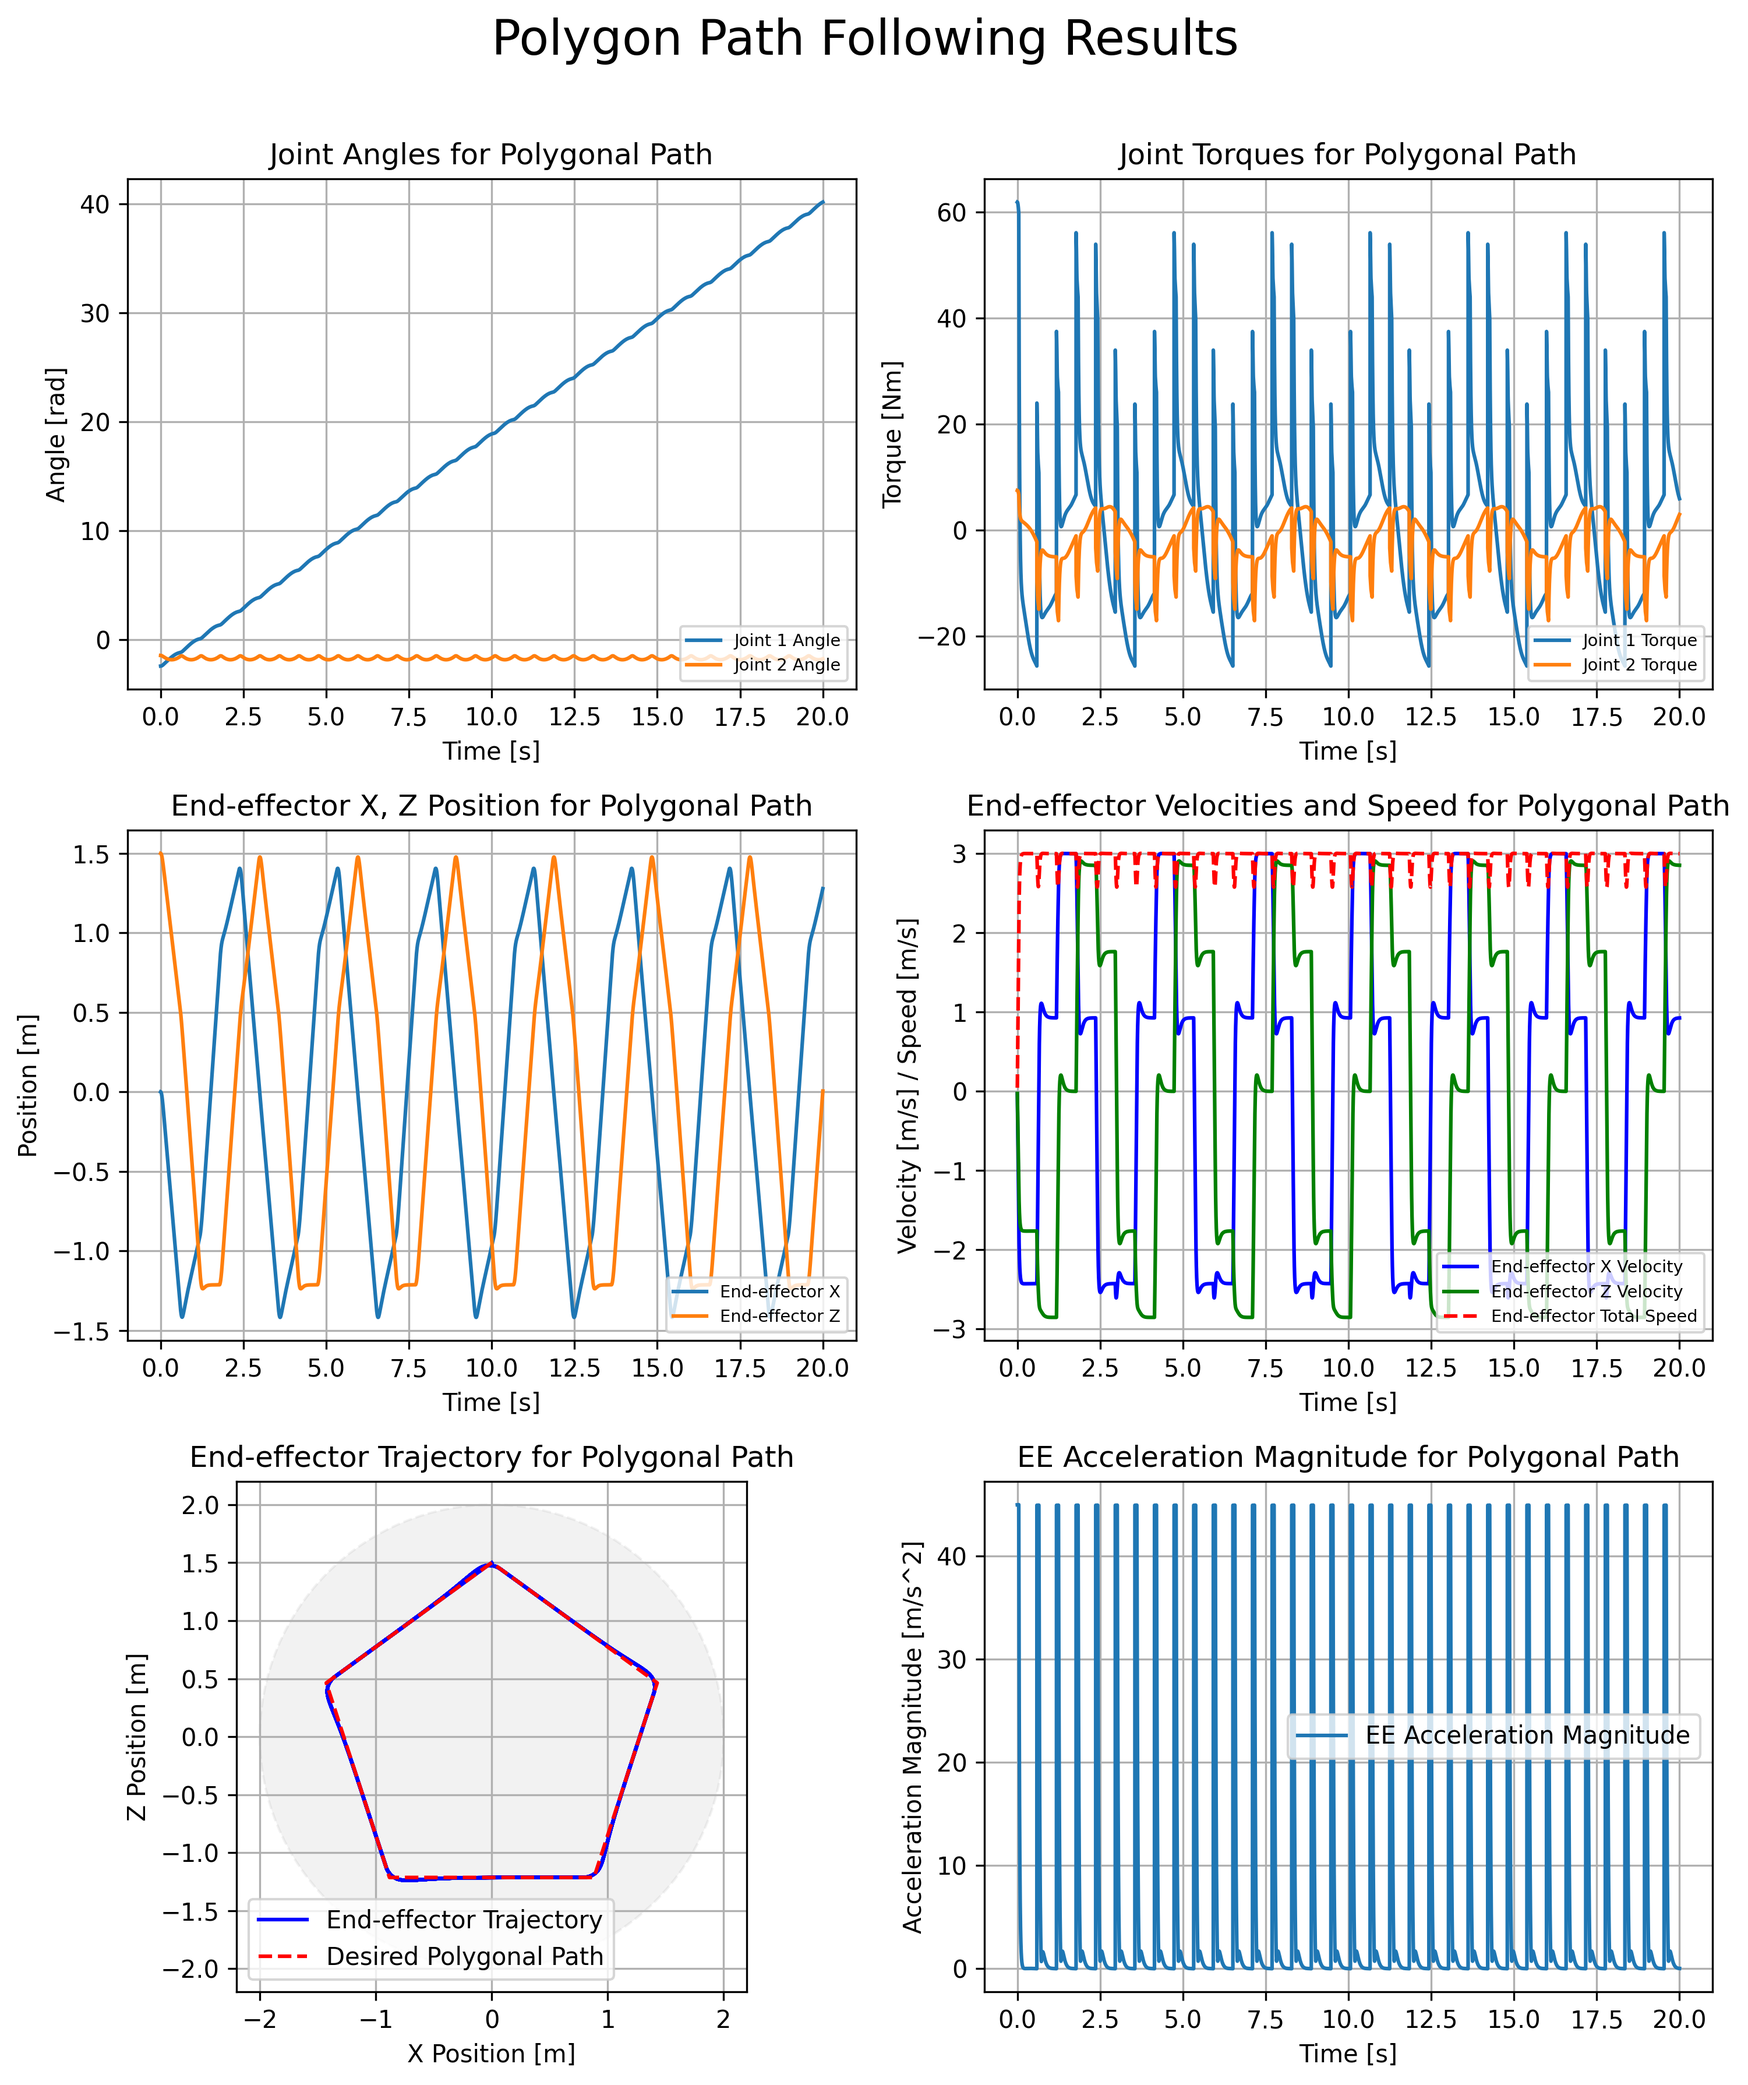
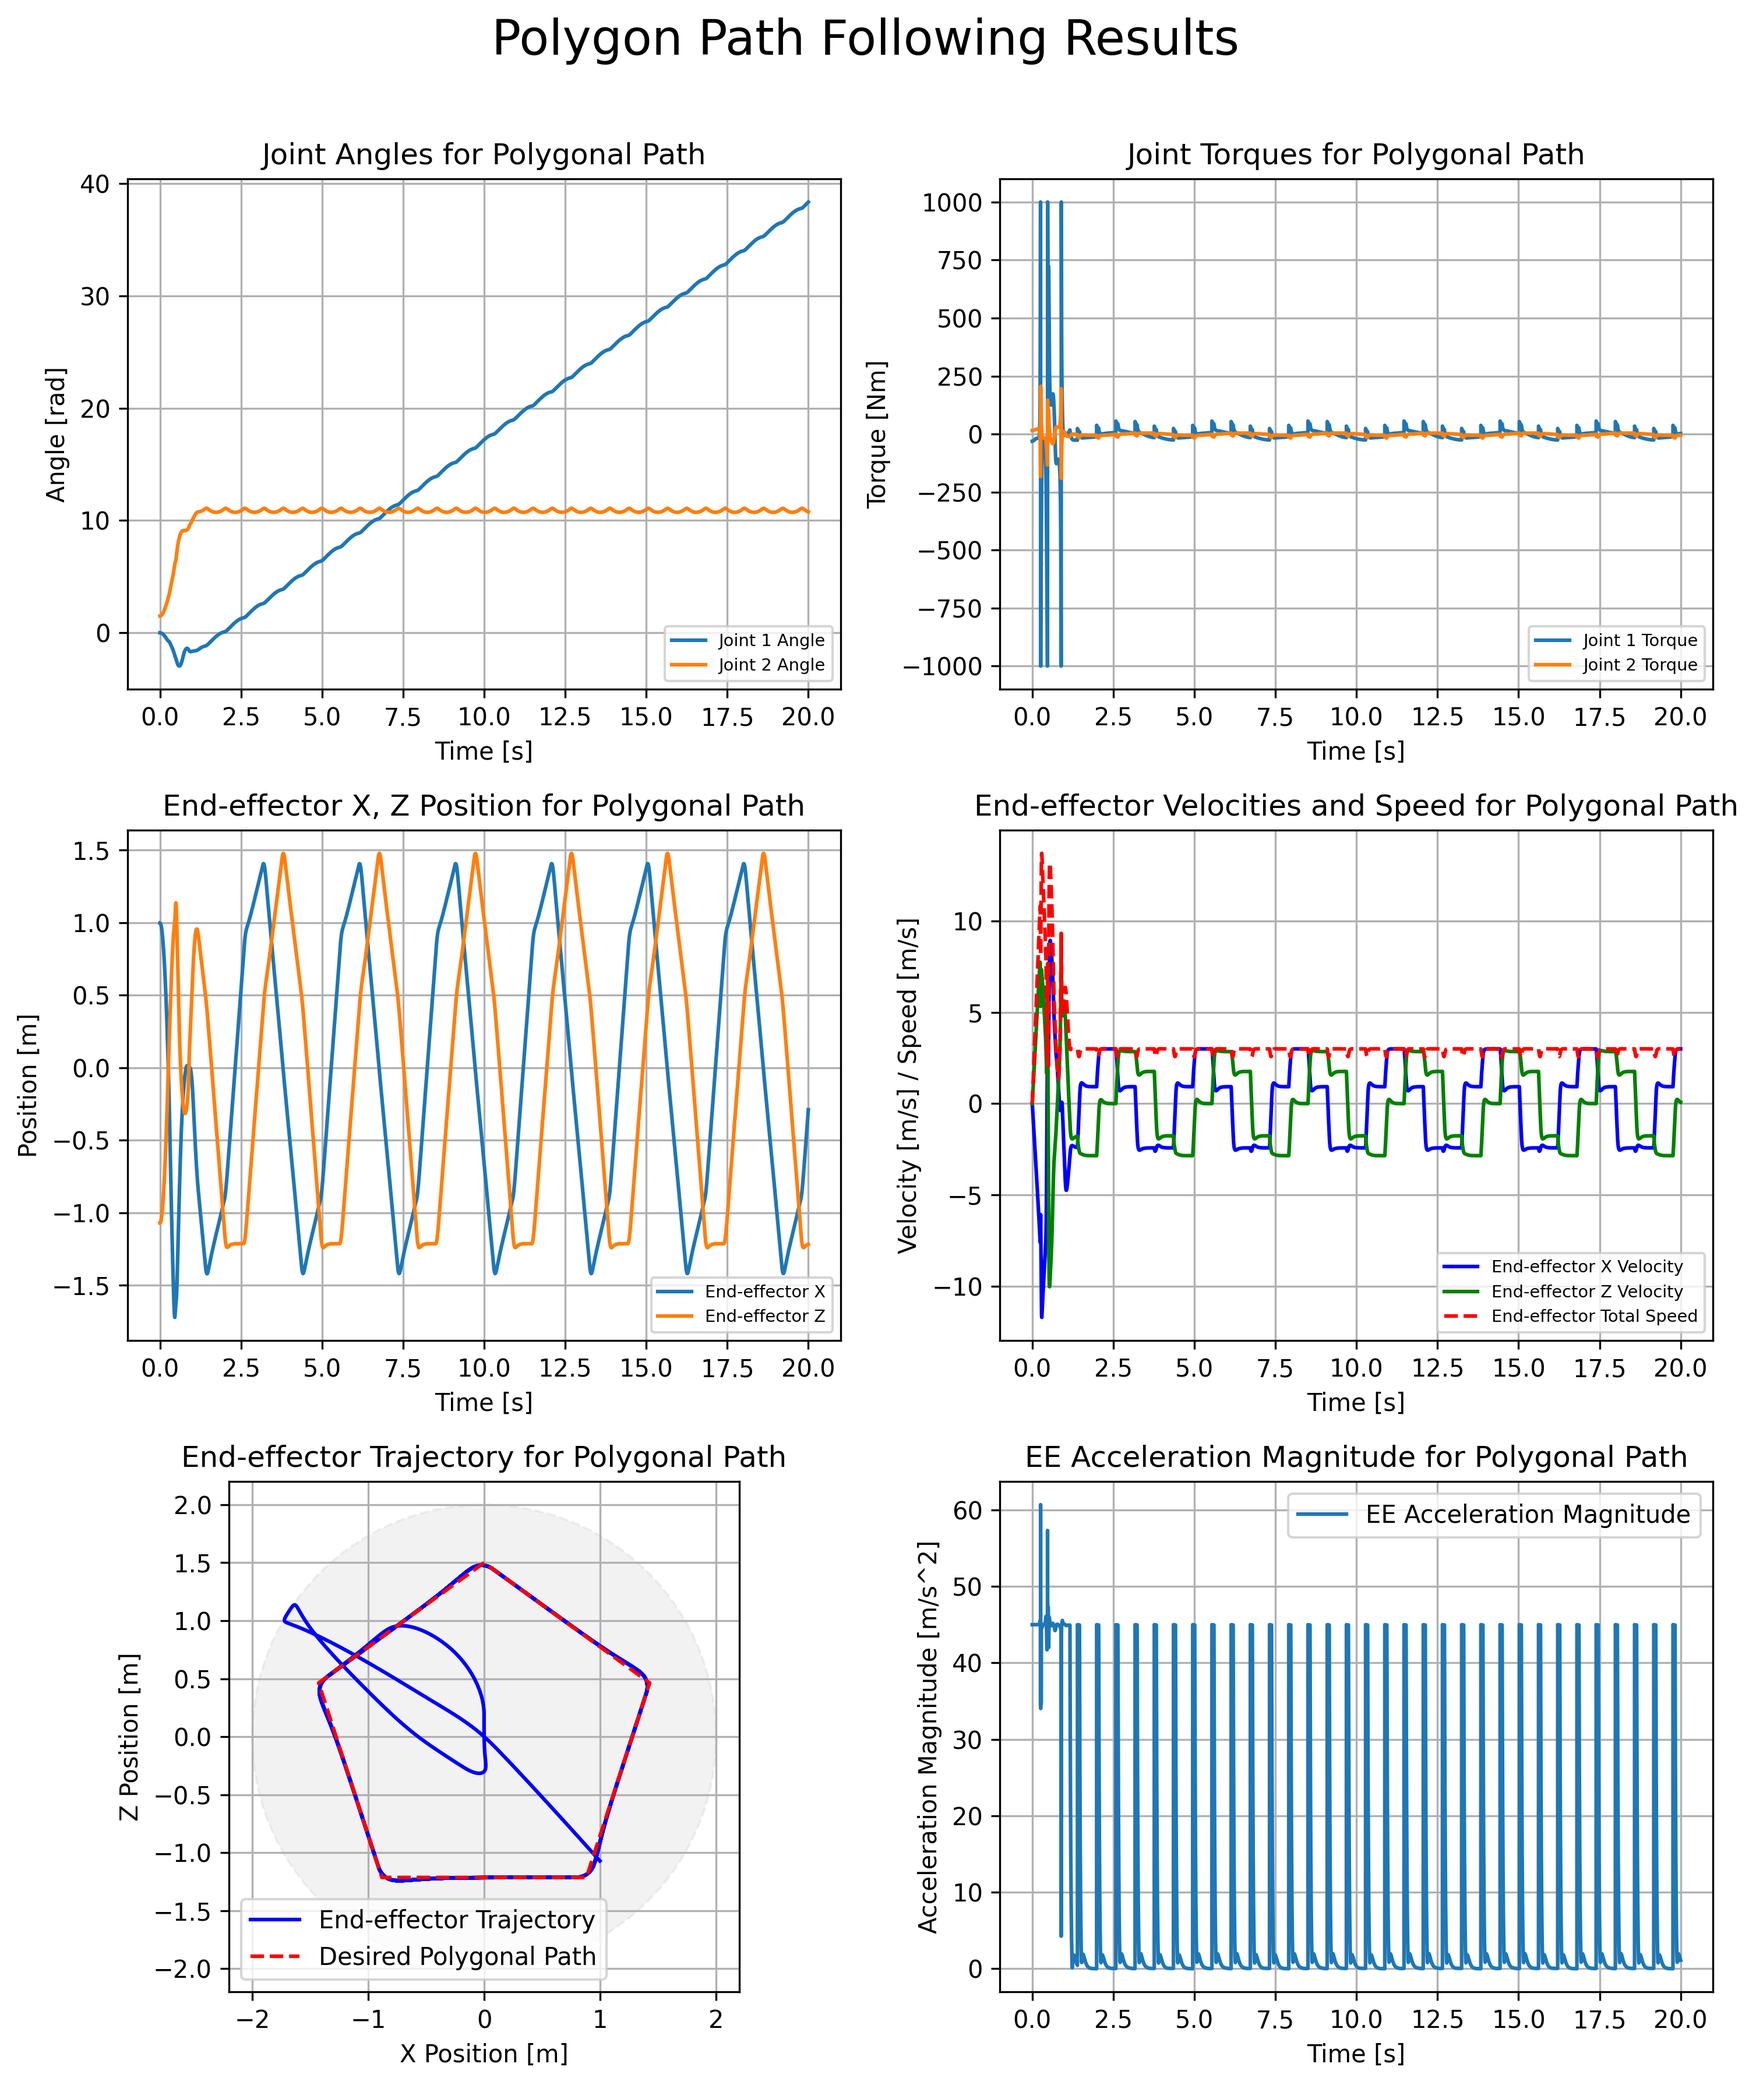
polygon path updated

diff --git a/experiment/PolygonPath/simulation.py b/experiment/PolygonPath/simulation.py
@@ -1,10 +1,13 @@
 import numpy as np
+from typing import Optional
+
 from src.parameters import RobotParameters, SimulationParameters
-from src.mujoco_setup import MODEL_PATH, load_model_and_data, get_robot_parameters
+from src.mujoco_setup import MODEL_PATH, load_model_and_data, get_robot_parameters, get_simulation_parameters
 from src.path.PolygonPath import PolygonPath
+from src.robot.arm_2dof.kinematics import inverse_kinematics
+
 from simulation.run_simulation import run_simulation
 from experiment.gif_generation import generate_robot_arm_full_trajectory_gif
-from typing import Optional
 from experiment.experiment_runner import run_experiment_cli
 from experiment.PolygonPath.plot_combined_results import plot_polygonal_path_results
 
@@ -30,17 +33,17 @@ def regular_polygon(r, n):
 def run_experiment(q_init: np.ndarray, polygon_path_obj: PolygonPath, robot_params: Optional[RobotParameters] = None, 
                    max_acceleration = 10.0, verbose = True, use_viewer = False):
     # Load the Mujoco model and data
-    model, data = load_model_and_data("model/2dof_arm.xml")
+    model, data = load_model_and_data(MODEL_PATH)
     
     if robot_params is None:
-        robot_params = get_robot_parameters(load_model_and_data("model/2dof_arm.xml")[0])
+        robot_params = get_robot_parameters(model)
 
     # Set SimulationParameters for the polygonal path
     polygon_sim_duration = 20.0 # seconds
-    polygon_num_steps = int(polygon_sim_duration / dt)
-    sim_params = SimulationParameters(dt=dt, num_steps=polygon_num_steps)
+    sim_params = get_simulation_parameters(model)
+    sim_params.num_steps = int(polygon_sim_duration / sim_params.dt)
     
-    simulation_log = run_simulation(model, data, q_init, "pw", robot_params, sim_params, polygon_path_obj, 
+    simulation_log = run_simulation(model, data, q_init, "pw", sim_params, polygon_path_obj, 
                                     max_acceleration=max_acceleration, save_operational_space=True, use_viewer = use_viewer)
     
     if verbose:
@@ -80,7 +83,7 @@ def generate_GIF(simulation_log: list, sim_params: SimulationParameters, polygon
         segment_length = segment.length
         # Generate points along the segment for visualization
         if segment_length > 0:
-            num_points_per_segment = int(segment_length / (polygon_path_obj.desired_speed * dt)) + 2 # Add a few extra points
+            num_points_per_segment = int(segment_length / (polygon_path_obj.desired_speed * sim_params.dt)) + 2 # Add a few extra points
             # Use np.linspace to get points along the segment
             for k in range(num_points_per_segment):
                 alpha = k / (num_points_per_segment - 1)
@@ -108,12 +111,12 @@ def generate_GIF(simulation_log: list, sim_params: SimulationParameters, polygon
 # Main function to run the polygonal path following experiment
 # ============================================
 def main(use_viewer = True, generate_plot = True, generate_gif = True):
-    
-    # Initial joint angles
-    q_init = inverse_kinematics(np.array([0, 1.5]), L1, L2)
-    
+   
      # Define the vertices of a polygonal path
     polygon_vertices = regular_polygon(1.5, 5)
+    
+    # Initial joint angles
+    q_init = inverse_kinematics(polygon_vertices[0], 1.0, 1.0, polygon_vertices[0])
 
     # Define desired speed and maximum acceleration for the polygonal path
     desired_speed = 3.0

diff --git a/experiment/PolygonPath/plot_combined_results.py b/experiment/PolygonPath/plot_combined_results.py
@@ -1,6 +1,8 @@
 import matplotlib.pyplot as plt
 import numpy as np
-from src.mujoco_setup import dt, calcuate_inertia_matrix, calculate_coriolis_centrifugal_torques, calculate_gravity_torques, get_jacobian, get_J_dot
+
+from src.robot.arm_2dof.dynamics import calcuate_inertia_matrix, calculate_coriolis_centrifugal_torques, calculate_gravity_torques
+from src.robot.arm_2dof.kinematics import get_jacobian, get_J_dot
 
 def plot_polygonal_path_results(x_log, q_log, torque_log, polygon_path_obj, sim_params, robot_params):
         
@@ -31,7 +33,7 @@ def plot_polygonal_path_results(x_log, q_log, torque_log, polygon_path_obj, sim_
 
     # --- Joint Angles and Torques over Time ---
 
-    time_log = [i * dt for i in range(sim_params.num_steps)]
+    time_log = [i * sim_params.dt for i in range(sim_params.num_steps)]
 
     ax_q.plot(time_log, q1_log, label='Joint 1 Angle')
     ax_q.plot(time_log, q2_log, label='Joint 2 Angle')

diff --git a/simulation/run_simulation.py b/simulation/run_simulation.py
@@ -2,7 +2,7 @@ import numpy as np
 import mujoco
 import mujoco.viewer
 import time
-from src.parameters import RobotParameters, ImpedanceControlParameters,SimulationParameters
+from src.parameters import ImpedanceControlParameters,SimulationParameters
 from simulation.perform_simulation_step import perform_simulation_step
 from src.mujoco_setup import get_robot_parameters
 

diff --git a/src/robot/arm_2dof/kinematics.py b/src/robot/arm_2dof/kinematics.py
@@ -20,7 +20,7 @@ def get_J_dot(q1, q2, q1_dot, q2_dot, L1, L2):
     ])
     return Jdot
 
-def inverse_kinematics(pos, L1, L2, q_current = None):
+def inverse_kinematics(pos: np.ndarray, L1: float, L2: float, q_current: np.ndarray):
     x = pos[0]
     z = pos[1]
 

diff --git a/src/mujoco_setup.py b/src/mujoco_setup.py
@@ -1,5 +1,4 @@
 import mujoco
-import numpy as np
 
 MODEL_PATH = "model/arm_2dof.xml"
 
